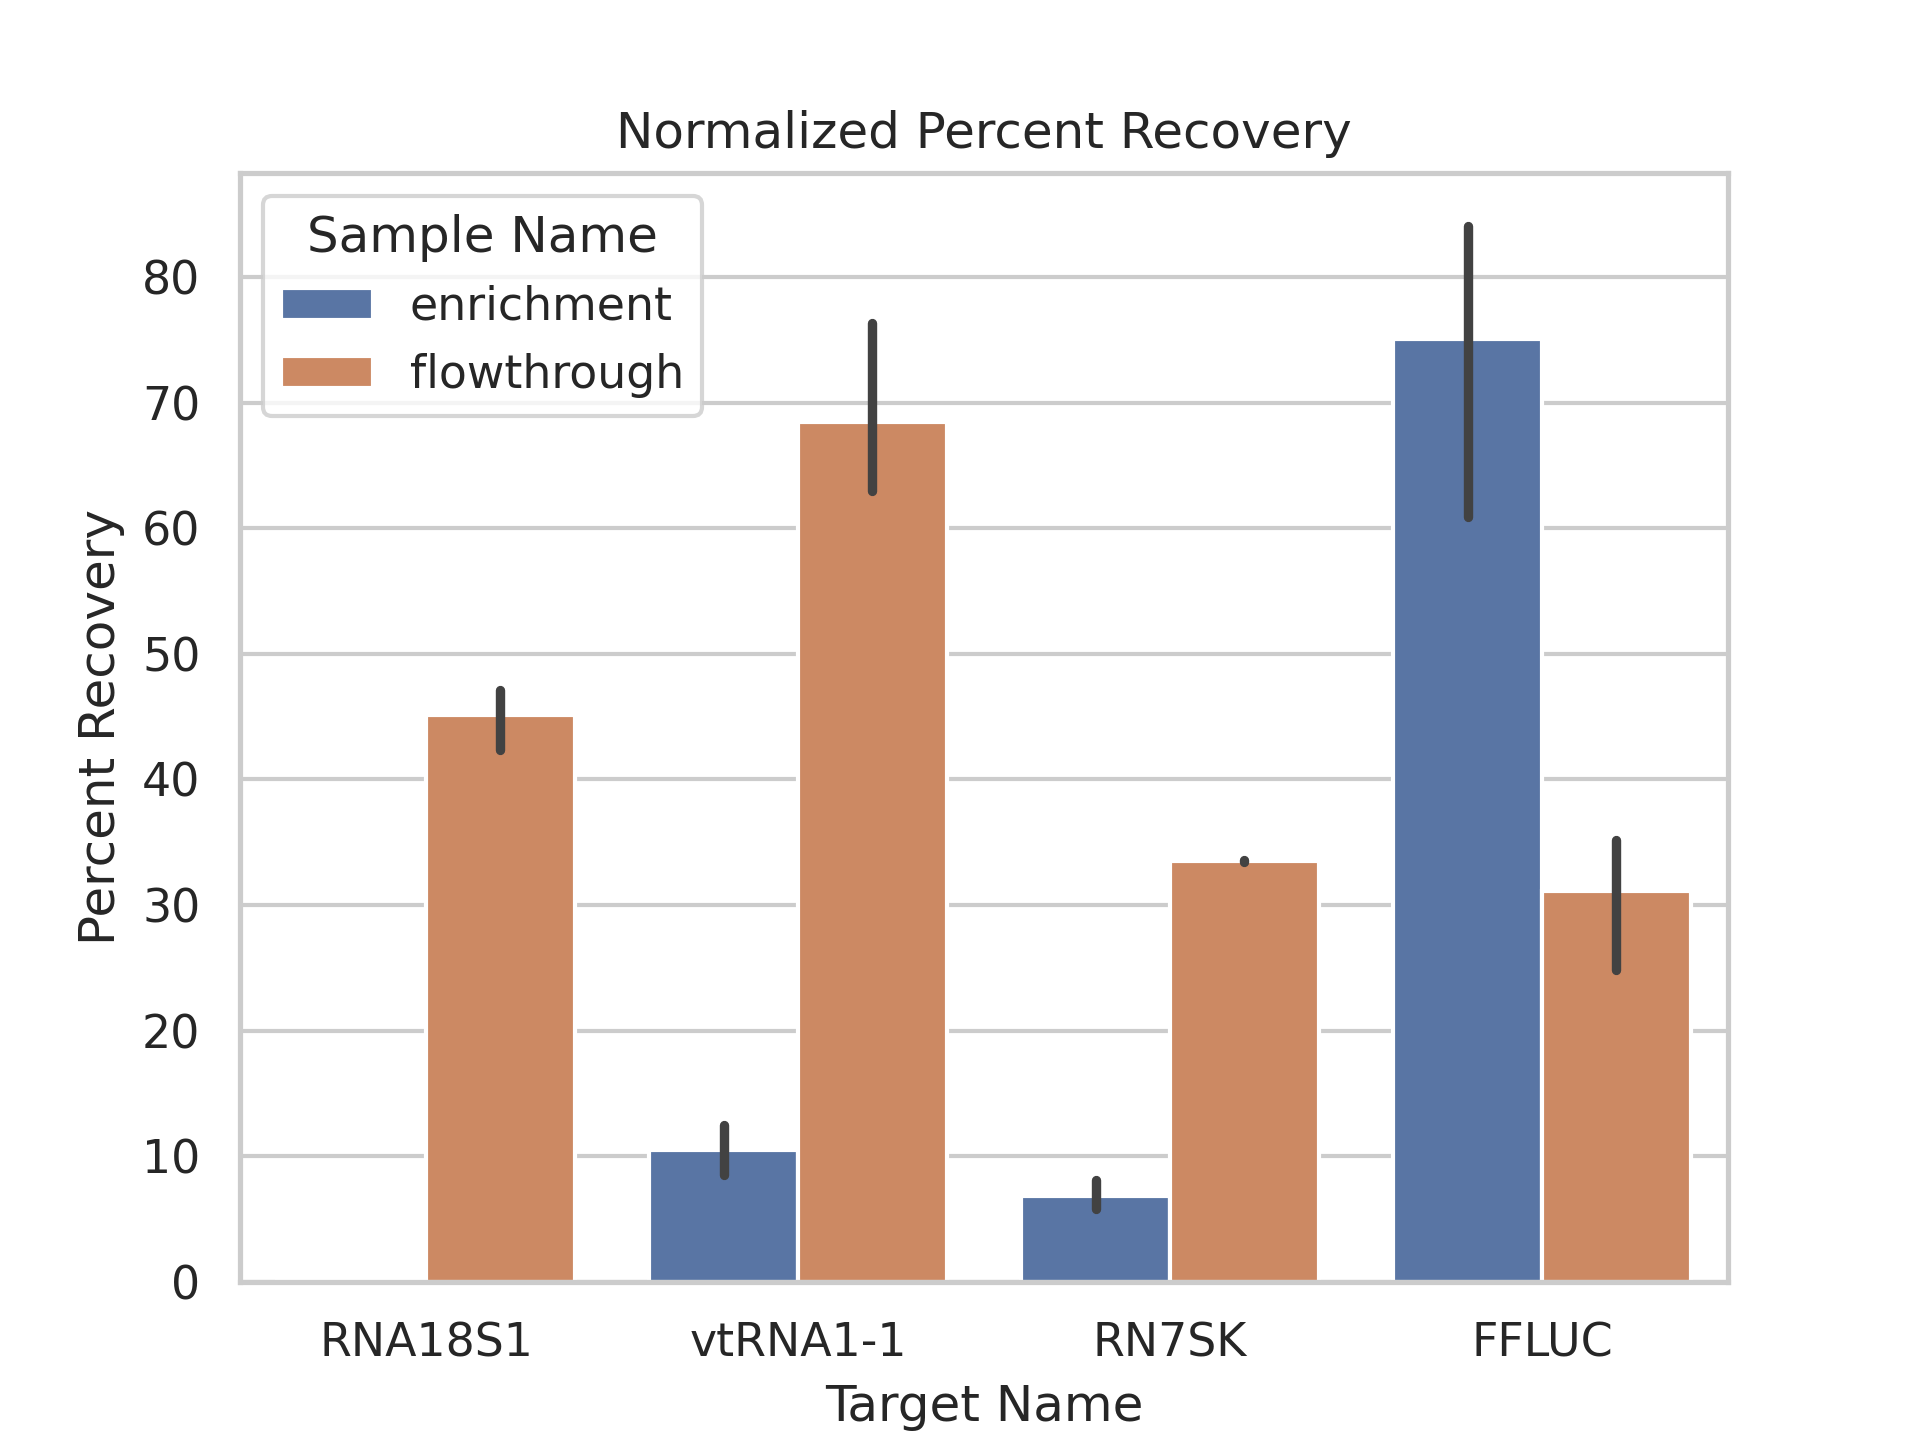
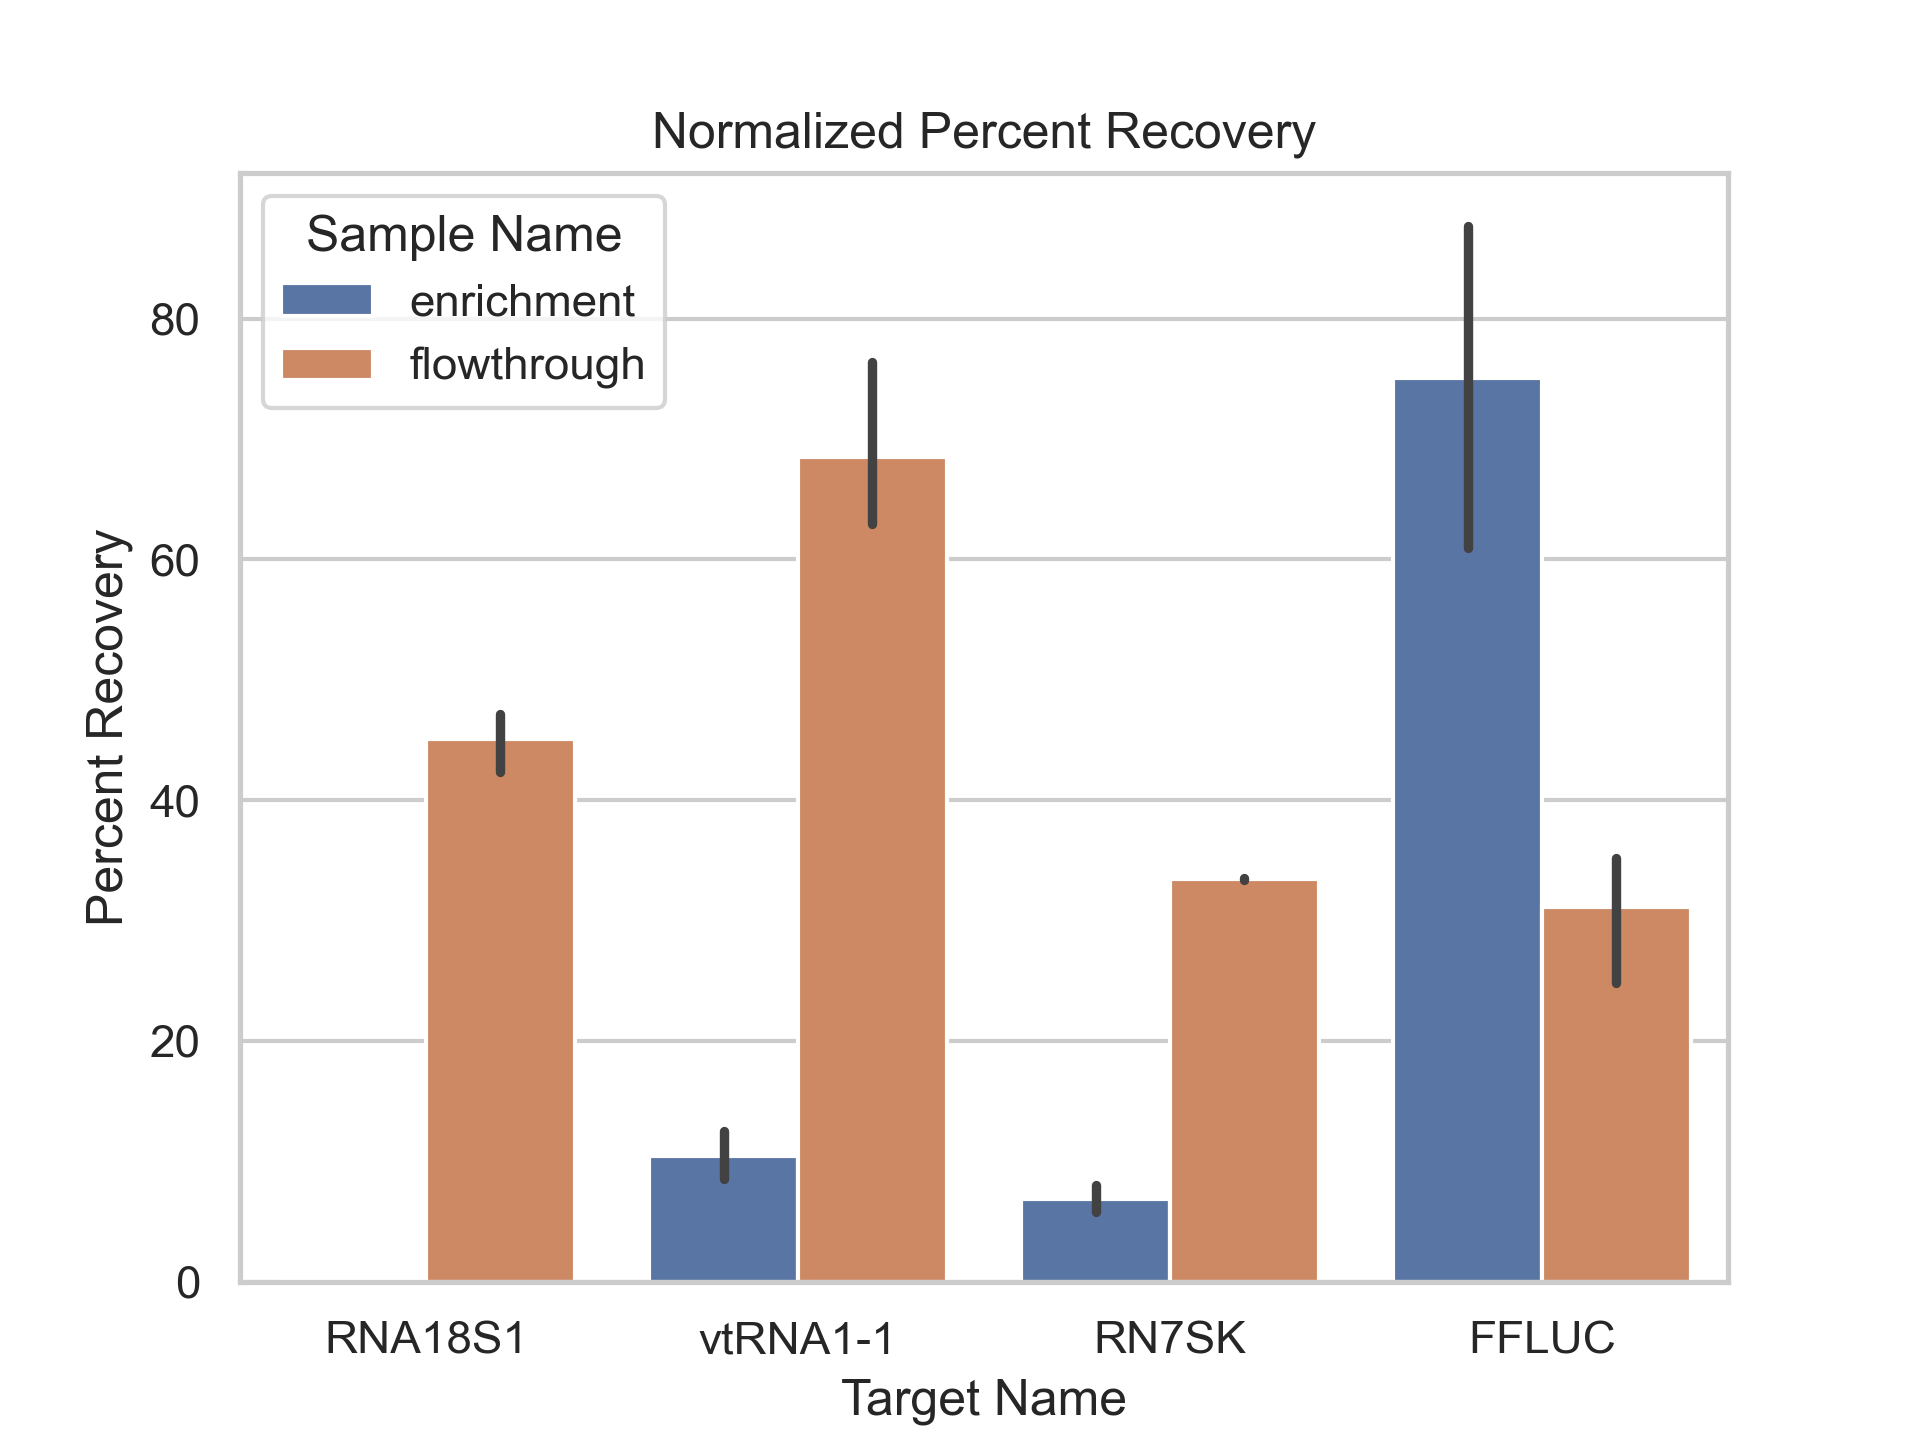
Fix normalization issue and plot 40% percent recovery
Update output file for TN037_7

diff --git a/TN037/TN037.7.py b/TN037/TN037.7.py
@@ -56,7 +56,7 @@ def calculate_percent_recovery(input_df, enrich_df):
     percent_recovery["Sample Name"] = enrich_df["Sample Name"]
     percent_recovery["Target Name"] = enrich_df["Target Name"]
     percent_recovery["CT.difference"] = input_df["CT"].sub(enrich_df["CT"])
-    percent_recovery["percent_recovery"] = 100 * 2 ** percent_recovery["CT.difference"]
+    percent_recovery["percent_recovery"] = 100 * (2 ** percent_recovery["CT.difference"])
     return percent_recovery
 
 
@@ -85,6 +85,13 @@ plot_percent_recovery(output, "Percent Recovery")
 # Normalize flowthrough values to how much the sample was concentrated during AMPure treatment
 # Input and enrich are 1.5x concentrated, flowthrough is 4.5x, so difference is 3x
 
-flowthrough_recovery["percent_recovery"] = flowthrough_recovery["percent_recovery"]/3
-normalized = pd.concat([enrichment_recovery, flowthrough_recovery])
+flowthrough_recovery_normalize = flowthrough_recovery.copy()
+flowthrough_recovery_normalize["percent_recovery"] = flowthrough_recovery_normalize["percent_recovery"]/3
+normalized = pd.concat([enrichment_recovery, flowthrough_recovery_normalize])
 plot_percent_recovery(normalized, "Normalized Percent Recovery")
+
+# Is there an issue with assuming flowthrough and enrichment could both be up to 80% total RNA? 
+# Divide these by 2 to get 40% for each
+normalized_40 = pd.concat([enrichment_recovery, flowthrough_recovery])
+normalized_40["percent_recovery"] = normalized_40["percent_recovery"]/2
+plot_percent_recovery(normalized_40, "Normalized 40% Percent Recovery")

diff --git a/README.md b/README.md
@@ -2,9 +2,9 @@
 
 ## Introduction
 
-This repository contains files for analyzing qPCR experiments. Data is organized by experiment and includes raw and analyzed files along with graphs.
+This repository contains files for analyzing qPCR experiments. Data is organized by experiment and includes raw and analyzed files along with graphs and output tables of data.
 
 ## Dependencies
 
 These analysis files require openpyxl pandas numpy matplotlib seaborn.
-
+Conda environments can be installed using the included environment.yml file.
